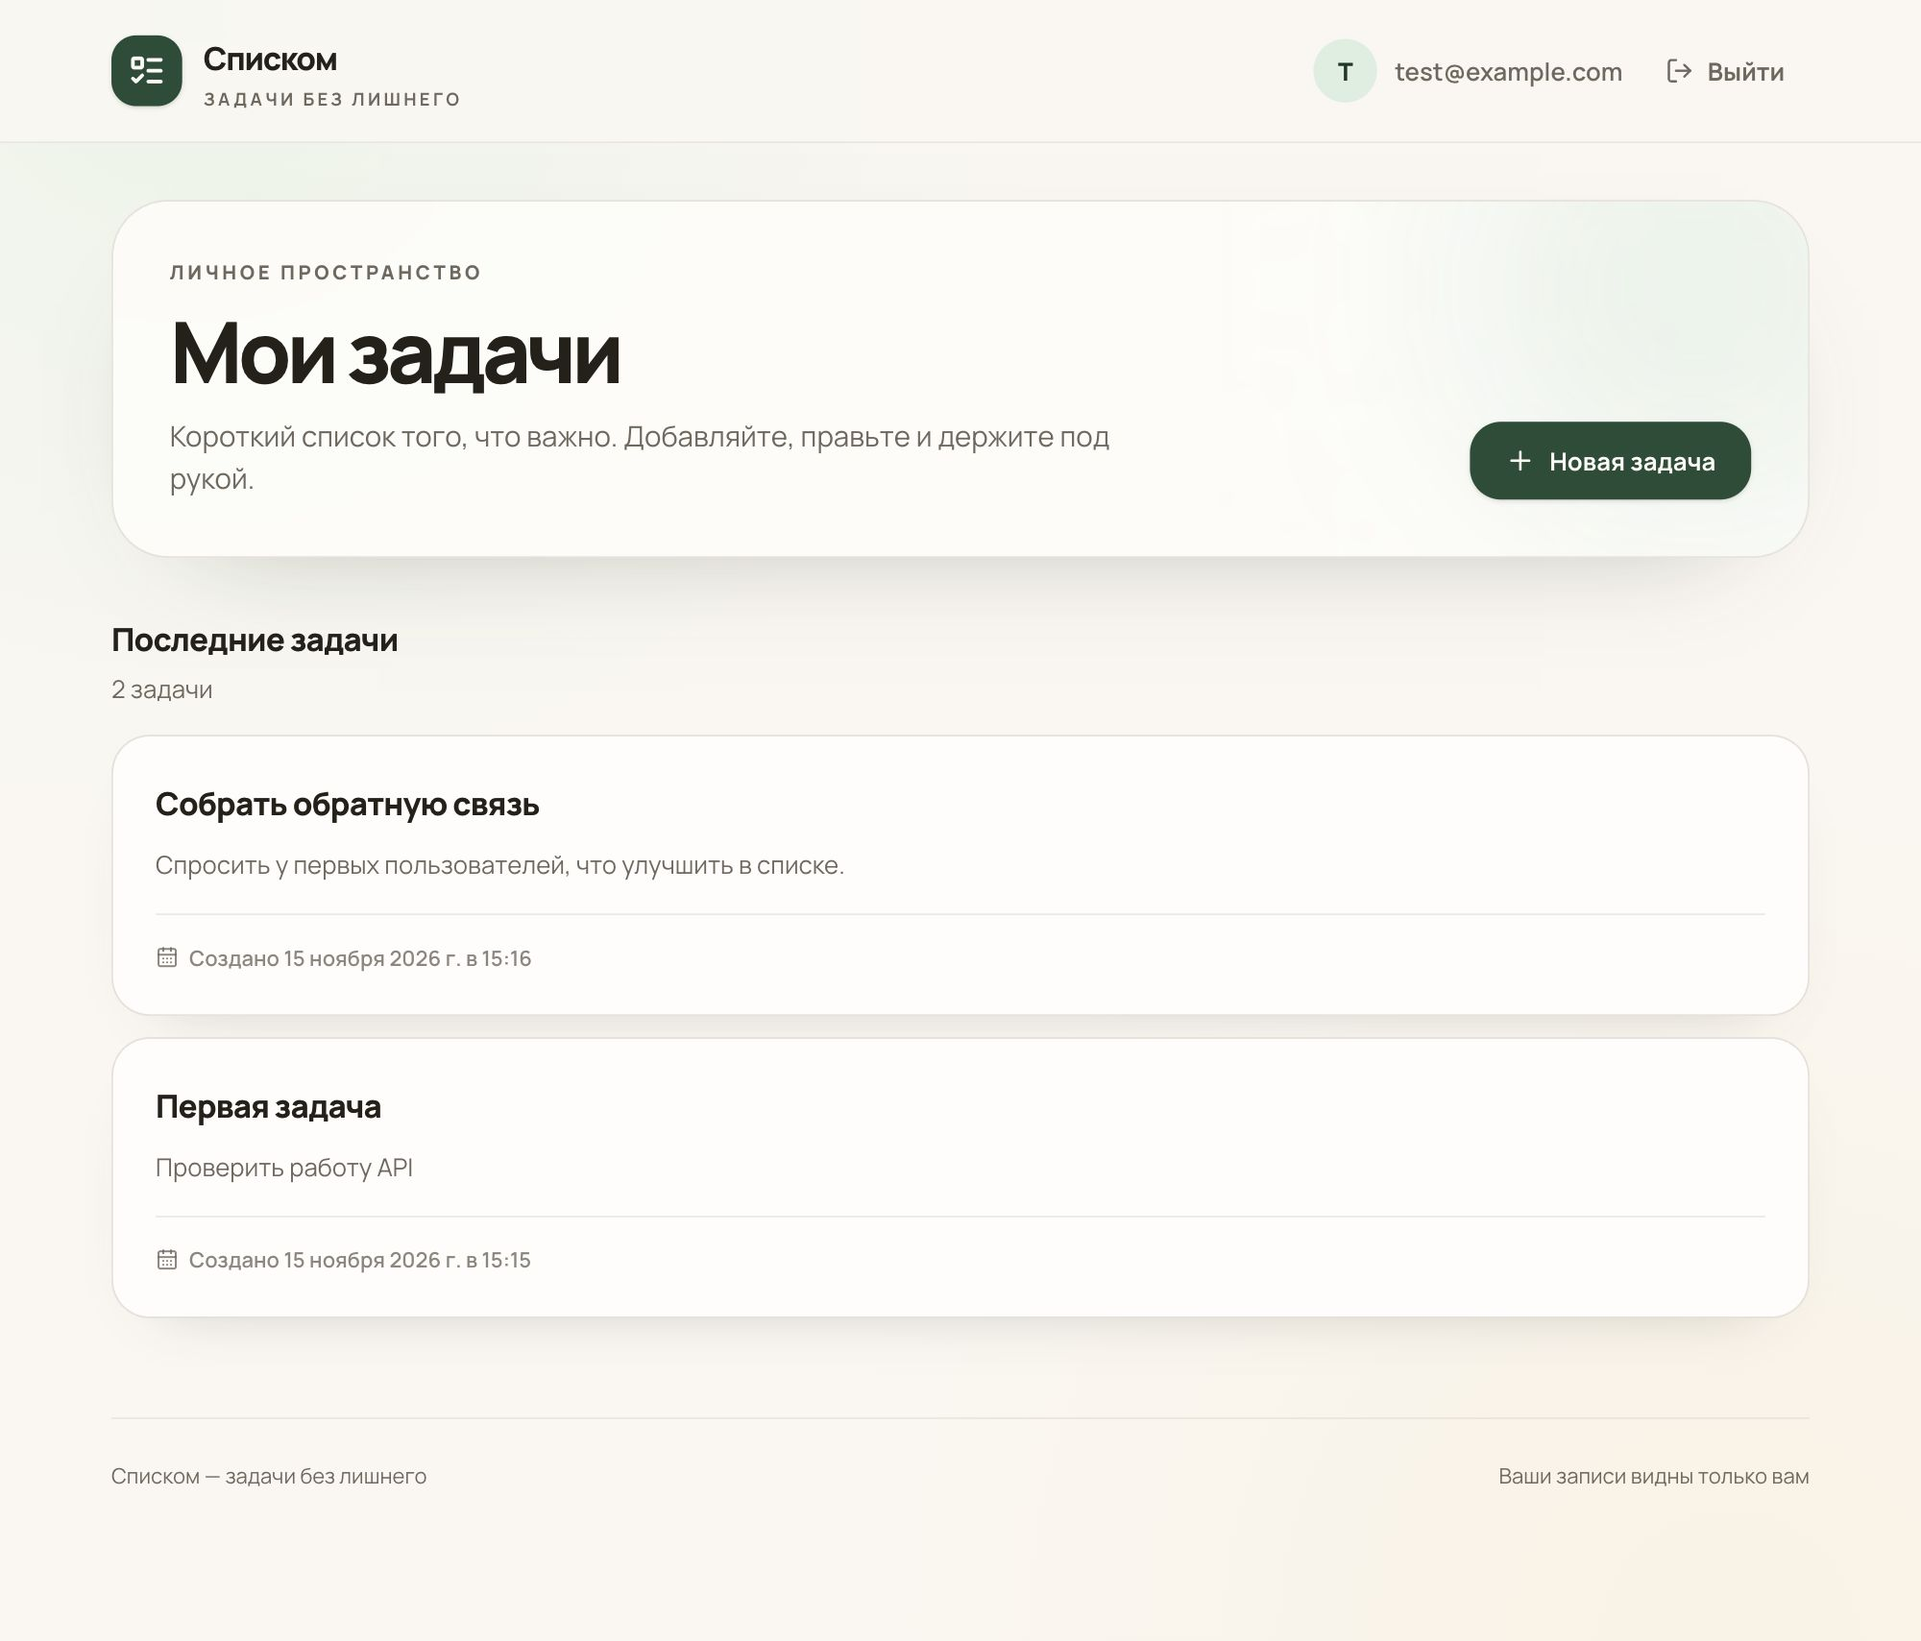
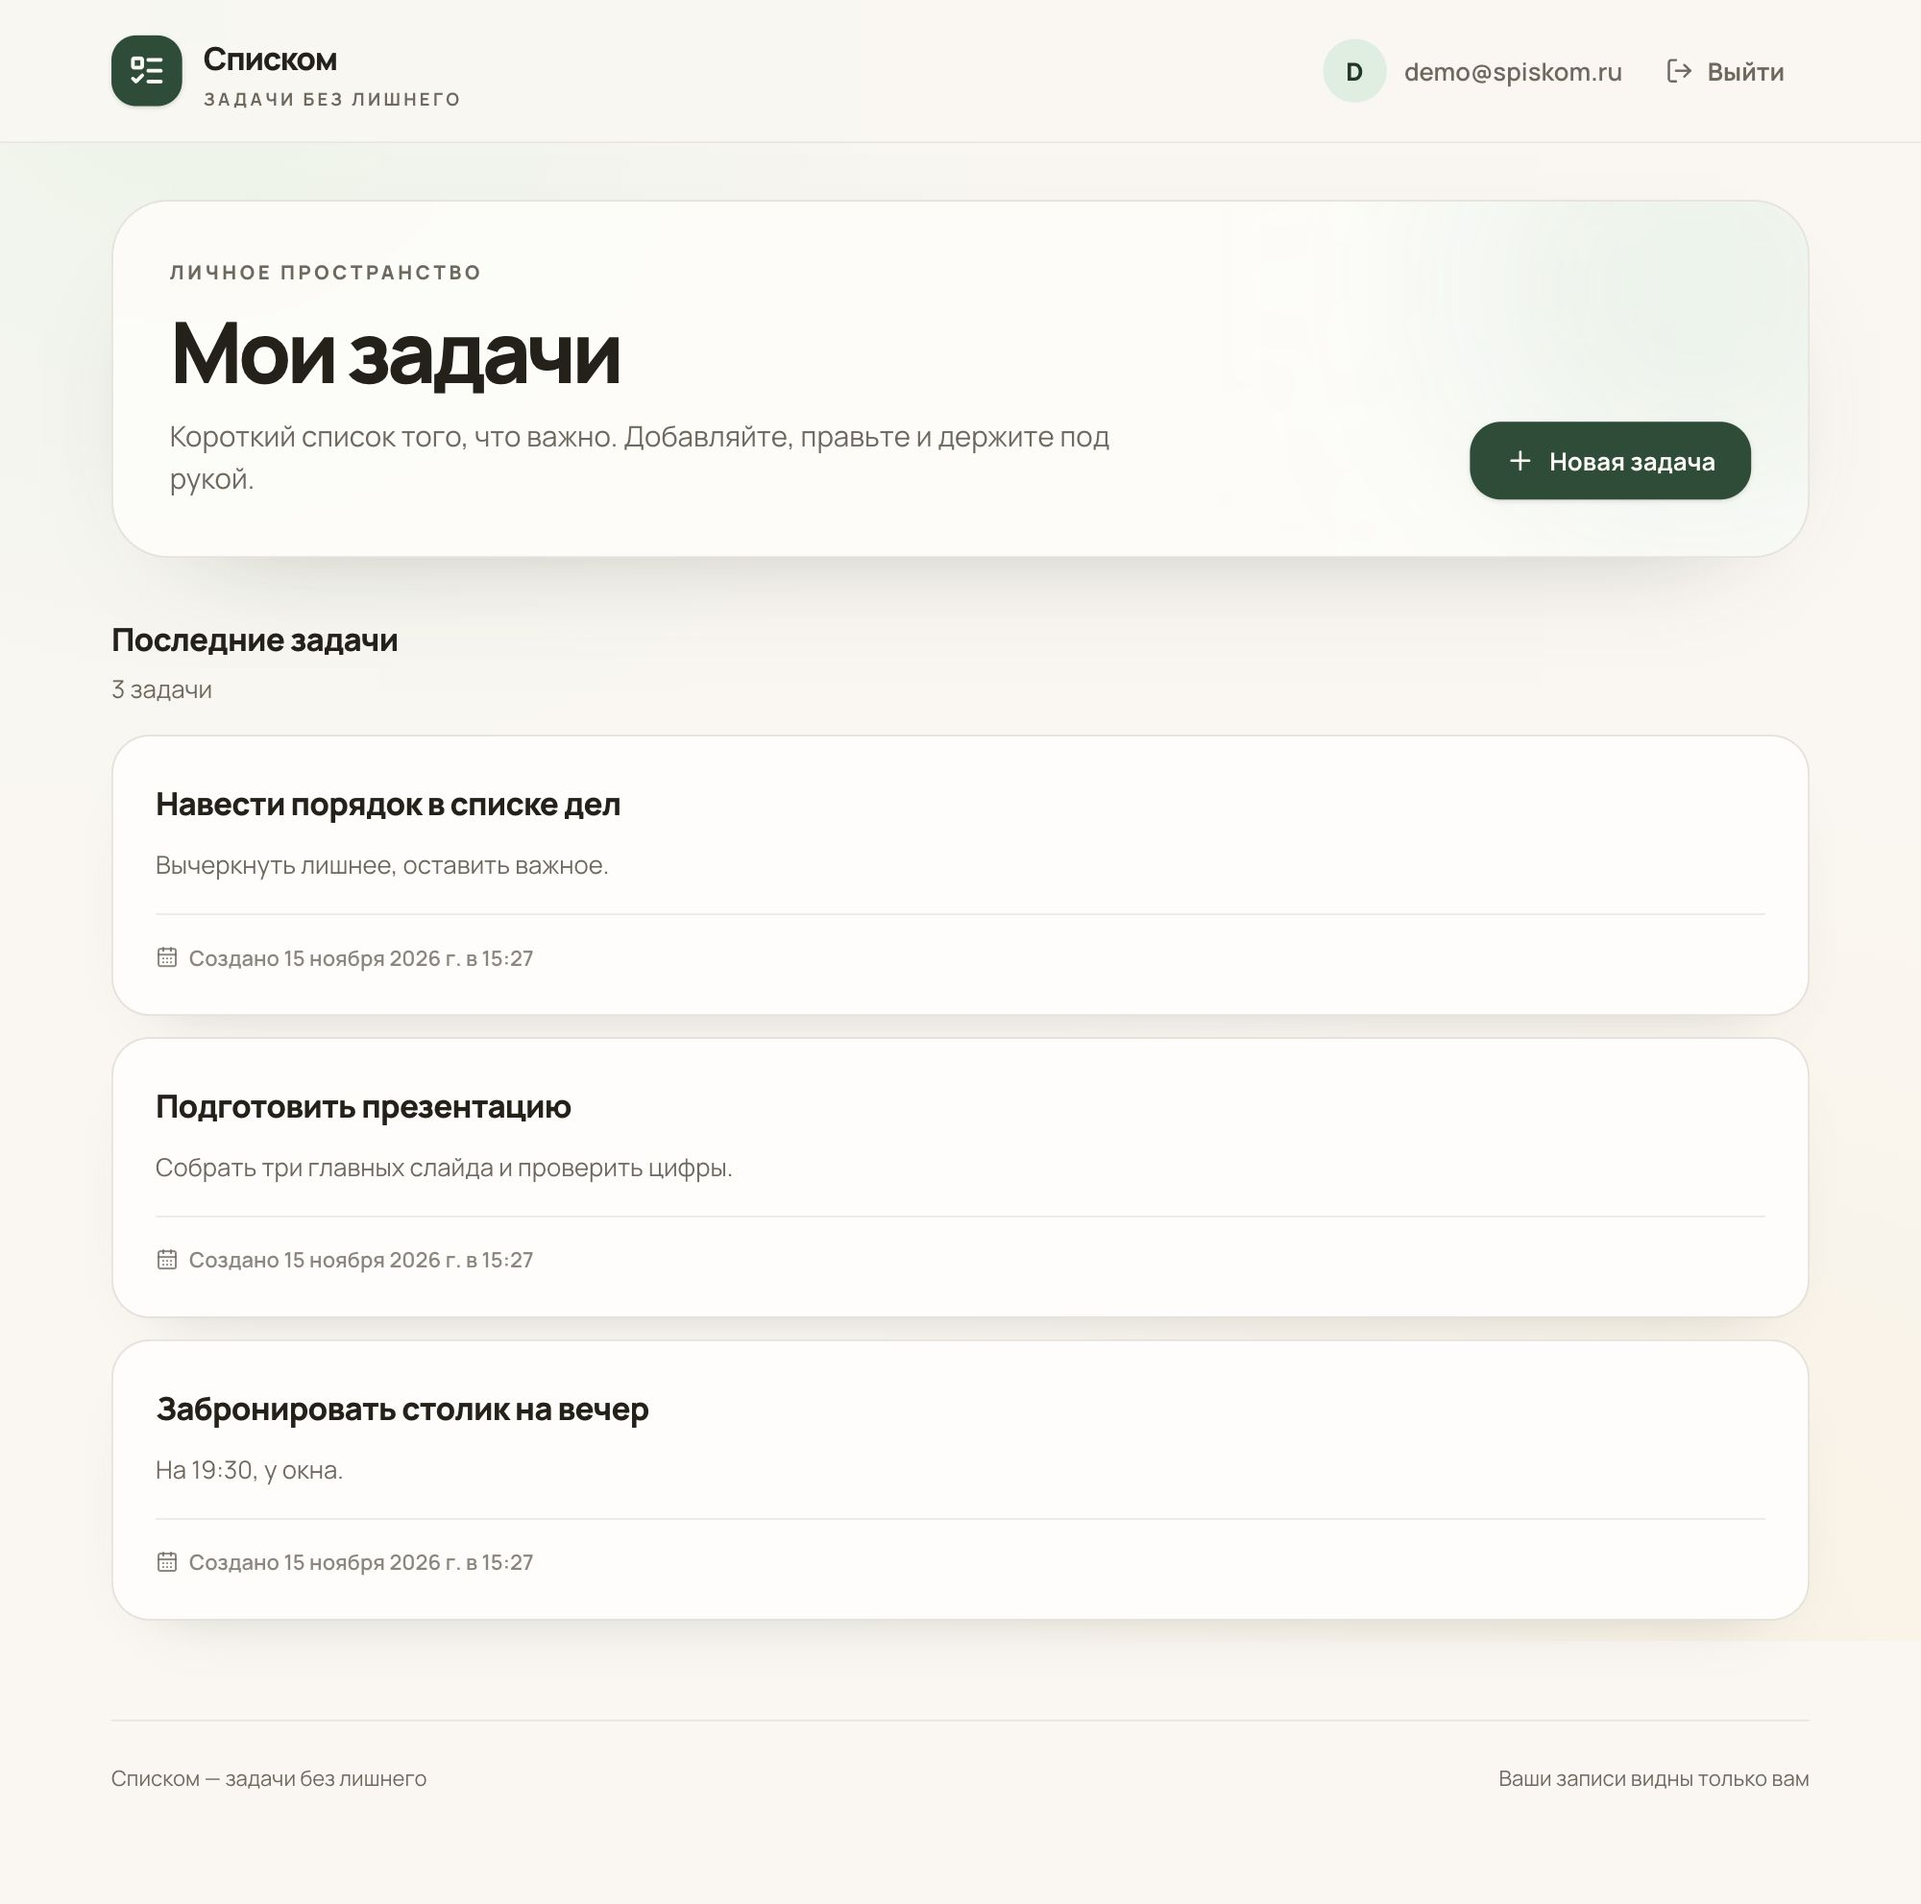
docs: описать локальную проверку почты

diff --git a/README.md b/README.md
@@ -6,6 +6,8 @@
 
 ![Список задач](docs/screenshots/todos.jpg)
 
+![Создание задачи](docs/screenshots/dialog.jpg)
+
 ## Возможности
 
 - Регистрация и вход по email и паролю.
@@ -115,6 +117,36 @@ npm run dev
 - Vite проксирует `/api` на API, поэтому cookie работает как same-origin.
 
 Если SMTP не настроен, письма выводятся в консоль API вместе со ссылкой сброса. Это удобно для локальной проверки без почтового сервиса.
+
+Демо-данные для локального запуска:
+
+```bash
+npm --prefix backend run db:seed
+```
+
+Аккаунт: `demo@spiskom.ru`, пароль: `demo12345`.
+
+### Почта при локальном запуске
+
+Без SMTP письма не отправляются наружу, а печатаются в консоли API. Там же находится ссылка для сброса пароля.
+
+Чтобы получать письма на Gmail:
+
+1. Включите двухэтапную аутентификацию в Google.
+2. Создайте пароль приложения: https://myaccount.google.com/apppasswords
+3. Добавьте в `backend/.env`:
+
+```text
+SMTP_HOST=smtp.gmail.com
+SMTP_PORT=465
+SMTP_USER=your-address@gmail.com
+SMTP_PASSWORD=app-password-without-spaces
+MAIL_FROM="Списком <your-address@gmail.com>"
+```
+
+4. Перезапустите API.
+
+Обычный пароль Google здесь не подходит. Если Gmail отклоняет отправку, используйте Mailpit в Docker, Resend API или другой SMTP-сервис. Регистрация при этом работает и без почты: аккаунт создаётся, а письмо просто не уходит.
 
 ## Переменные окружения
 
